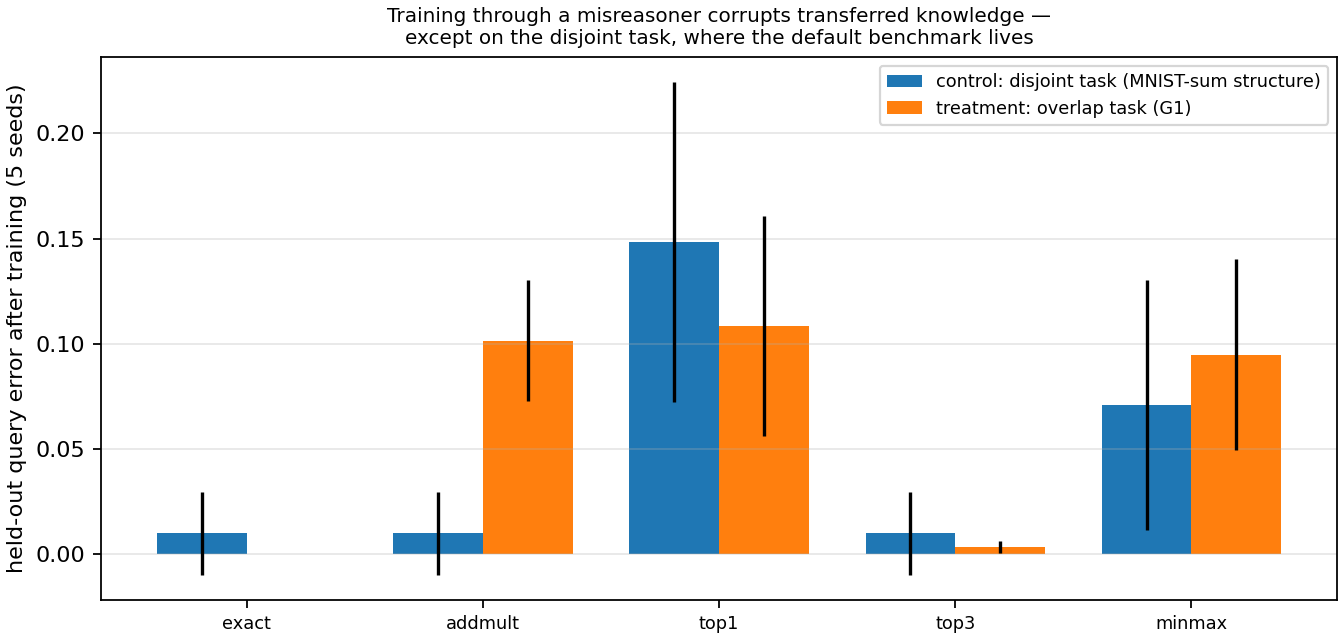
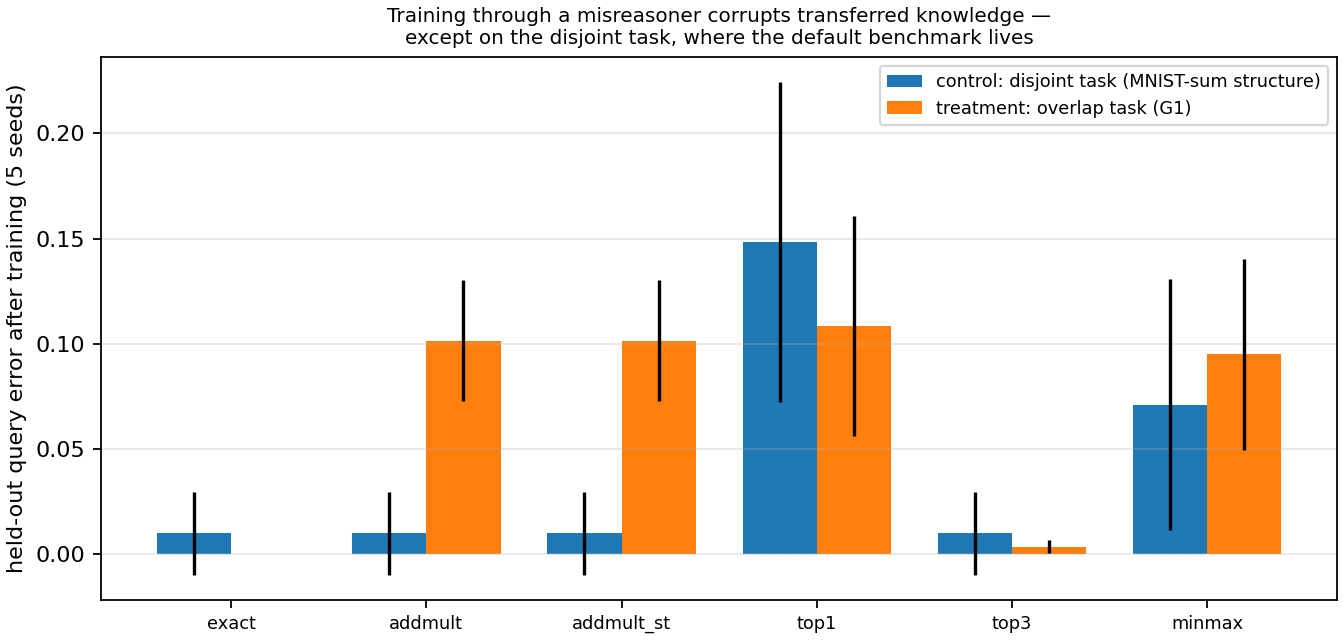
F-3 follow-up: straight-through clamp SUT; registered prediction refuted
AddMultStraightThrough (deployed diffaddmultprob semantics) in suts +
torch layer, parity-tested incl. saturation; E6 re-runs with registered
predictions: refuted — identical to min-clamp in both settings because
training never enters the clamp region; the F-3 inconsistency is an
inference-time phenomenon on these designs. Saturation-prone learning
task queued.

diff --git a/tests/test_learning_parity.py b/tests/test_learning_parity.py
@@ -70,3 +70,24 @@ def test_truth_matches_wmc_at_extremes():
     Z = torch.tensor(rng.random((40, len(facts))) < 0.5)
     v = S.wmc(Z.to(torch.float64))
     assert torch.allclose(v, S.truth(Z).to(torch.float64))
+
+
+def test_straight_through_clamp_matches_f3_semantics():
+    """F-3 model: clamped value, unclamped gradient — including at saturation,
+    where the min-clamp op has zero gradient."""
+    from nesyarena.suts import AddMultStraightThrough
+
+    inst = overlap_family(5, 2, 0, 0.9)  # raw sum >> 1 (clamp region)
+    facts = sorted(inst.probs, key=repr)
+    S = BatchStructure(inst.proofs, facts)
+    p = torch.full((1, len(facts)), 0.9, dtype=torch.float64, requires_grad=True)
+    v = prov_value("addmult_st", S, p)
+    v.sum().backward()
+    assert float(v.detach()[0]) == 1.0                      # clamped value
+    raw_ref = AddMult(clamp=False)
+    rg = raw_ref.grad(inst.proofs, inst.probs)
+    for j, f in enumerate(facts):
+        assert float(p.grad[0, j]) == pytest.approx(rg[f], abs=1e-10)
+    st = AddMultStraightThrough()
+    assert st.value(inst.proofs, inst.probs) == 1.0
+    assert st.grad(inst.proofs, inst.probs) == rg

diff --git a/src/nesyarena/suts.py b/src/nesyarena/suts.py
@@ -80,6 +80,23 @@ class AddMult(Provenance):
         return g
 
 
+class AddMultStraightThrough(Provenance):
+    """Deployed-faithful clamp per finding F-3 (Scallop diffaddmultprob):
+    the VALUE is the clamped proof-sum min(1, sum_j s_j), but the GRADIENT is
+    that of the UNCLAMPED sum — validated against deployed torch-tag autograd
+    to 4.8e-08 on the frozen saturation battery. The (value, gradient) pair is
+    mutually inconsistent in the clamp region by construction: that is the
+    deployed behavior being modeled, not a bug here."""
+
+    name = "add-mult(straight-through)"
+
+    def value(self, proofs, probs):
+        return min(1.0, sum(proof_score(pr, probs) for pr in proofs))
+
+    def grad(self, proofs, probs):
+        return AddMult(clamp=False).grad(proofs, probs)
+
+
 class TopK(Provenance):
     """Exact WMC restricted to the k highest-scoring proofs
     (difftopkproofs-style: differentiates the retained set, selection frozen;

diff --git a/experiments/e6_facttable.py b/experiments/e6_facttable.py
@@ -42,7 +42,8 @@ from nesyarena.oracle import wmc  # noqa: E402
 
 HERE = os.path.dirname(os.path.abspath(__file__))
 OUT = os.environ.get("NESYARENA_OUT", os.path.join(HERE, "..", "out"))
-SUT_K = {"exact": None, "addmult": None, "top1": 1, "top3": 3, "minmax": None}
+SUT_K = {"exact": None, "addmult": None, "addmult_st": None,
+         "top1": 1, "top3": 3, "minmax": None}
 EPS = 1e-4
 
 
@@ -105,7 +106,7 @@ def cat_value(name, terms, pA, pB, k):
     """Disjoint categorical sum. exact and addmult share one path: on
     mutually exclusive proofs add-mult IS distribution semantics (H9)."""
     vals = torch.stack([pA[i] * pB[j] for (i, j) in terms])
-    if name in ("exact", "addmult"):
+    if name in ("exact", "addmult", "addmult_st"):  # disjoint: no clamp active
         return vals.sum()
     if name.startswith("top"):
         order = torch.argsort(vals.detach(), descending=True)[:k]  # frozen

diff --git a/experiments/e6_pixels.py b/experiments/e6_pixels.py
@@ -40,7 +40,8 @@ from nesyarena.learning import BatchStructure, prov_value  # noqa: E402
 
 HERE = os.path.dirname(os.path.abspath(__file__))
 OUT = os.environ.get("NESYARENA_OUT", os.path.join(HERE, "..", "out"))
-SUT_K = {"exact": None, "addmult": None, "top1": 1, "top3": 3, "minmax": None}
+SUT_K = {"exact": None, "addmult": None, "addmult_st": None,
+         "top1": 1, "top3": 3, "minmax": None}
 EPS = 1e-4
 
 

diff --git a/docs/ROADMAP.md b/docs/ROADMAP.md
@@ -73,10 +73,13 @@ they only share the frozen instance set and the adapter protocol.
    frozen reference implementation) to the rebuilt core.
 3. **Recursion-faithful add-mult reference variant** (per finding F-1) +
    recursive overlap sweeps against Scallop.
-4. **Straight-through add-mult reference SUT** (per finding F-3) in the
-   learning layer + re-run of the saturation-relevant E6 cells with it (the
-   deployed-faithful clamp may corrupt perception differently than the
-   min-clamp our published learning numbers model).
+4. **Straight-through add-mult reference SUT** (per finding F-3) — **done,
+   registered prediction refuted**: on both E6 settings training never
+   enters the clamp region, so straight-through and min-clamp trajectories
+   are identical to every decimal; the F-3 value/gradient inconsistency is
+   real at inference (E1: 100% clamp-pinned cells at p=0.9, P>=3) but
+   latent in these learning designs. Follow-up (open): a saturation-prone
+   learning task that keeps the raw proof-sum above 1 mid-training.
 5. **Negation axis** (stratified / conformance-by-refusal), specified in the
    protocol, not yet ported.
 6. **Random-DAG family** + two-level overlap surfaces (beyond the designed G1/G2).

diff --git a/out/RESULTS.md b/out/RESULTS.md
@@ -2,7 +2,7 @@
 
 All numbers produced by the rebuilt core (`src/nesyarena/`) via the
 config-driven runners in `experiments/`; configs and their sha256 are
-embedded in each JSON. Conformance/finding logs: `G2_scallop.md`,
+embedded in each JSON. Conformance logs (one per framework):
 `conformance_scallop.md` (findings F-1, F-3), `conformance_deeplog.md`,
 `conformance_problog_kbest.md`.
 
@@ -48,6 +48,7 @@ max |bias − tau·ln P| = 2.22e-16
 | SUT | control (disjoint) | treatment (overlap) | facts-quality | fact MAE |
 |---|---|---|---|---|
 | addmult | 0.010 ± 0.020 | 0.101 ± 0.029 | 0.123 | 0.128 |
+| addmult_st | 0.010 ± 0.020 | 0.101 ± 0.029 | 0.123 | 0.128 |
 | exact | 0.010 ± 0.020 | 0.000 ± 0.000 | 0.000 | 0.029 |
 | minmax | 0.071 ± 0.059 | 0.095 ± 0.045 | 0.212 | 0.272 |
 | top1 | 0.148 ± 0.076 | 0.109 ± 0.052 | 0.113 | 0.191 |
@@ -58,6 +59,7 @@ max |bias − tau·ln P| = 2.22e-16
 | SUT | accuracy | calibration vs Bayes | transfer | facts-quality |
 |---|---|---|---|---|
 | addmult | 0.734 ± 0.006 | 0.145 ± 0.002 | 0.093 ± 0.002 | 0.101 ± 0.002 |
+| addmult_st | 0.734 ± 0.006 | 0.145 ± 0.002 | 0.093 ± 0.002 | 0.101 ± 0.002 |
 | exact | 0.740 ± 0.004 | 0.101 ± 0.003 | 0.062 ± 0.002 | 0.062 ± 0.002 |
 | minmax | 0.742 ± 0.007 | 0.128 ± 0.002 | 0.085 ± 0.004 | 0.084 ± 0.001 |
 | top1 | 0.744 ± 0.005 | 0.105 ± 0.004 | 0.068 ± 0.003 | 0.069 ± 0.003 |